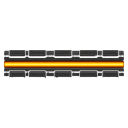
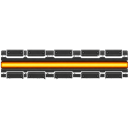
Fixed ArmoredConduit

Changed region(s): [[0.0, 0.375, 1.0, 0.625]]

diff --git a/Stormproof/CHANGELOG.md b/Stormproof/CHANGELOG.md
@@ -26,6 +26,7 @@ All notable changes to Stormproof are documented here.
 - Armored conduit atlas: L-corners use closed outer armor and culled dead quadrants; T-junctions use flat center hubs and end nubs.
 - Regenerated armored conduit as atlas-native pixel art (16-cell linked sheet + segment/menu icon); removed composited segment-stitching approach.
 - Regenerated heavy armored conduit art: riveted segment + junction hub block at L/T/cross bends (matches in-game armored look).
+- Fixed armored conduit atlas seams: wires now drawn as one continuous band per axis (no more plate-pattern restarts or gaps at tile edges); broken junction cells repaired.
 - Batch alpha-cleaned all Stormproof building PNGs to strip baked white/gray backgrounds and edge halos.
 - Storm spire is now completely fireproof (flammability 0), and any fires ignited by a caught lightning strike within 3 cells of the spire are snuffed out. The spire keeps sweeping the area for 5 seconds after the strike, since the flame explosion expands over several ticks rather than instantly - a grounded rod shouldn't burn your base down.
 - Storm spire surge chance per caught strike lowered from 25% to 5%.
